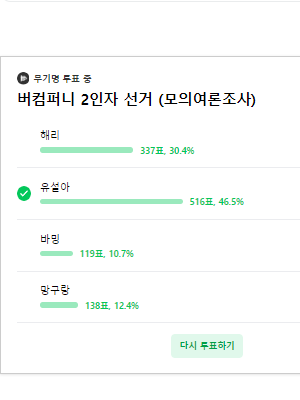
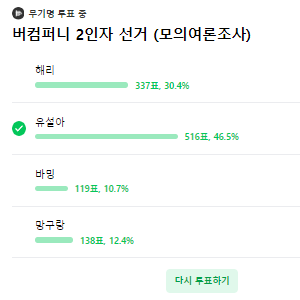
이미지 변경

diff --git a/index.html b/index.html
@@ -269,8 +269,8 @@
         <section class="bg-light py-5" id="history">
             <div class="container px-5 my-5">
                 <div class="text-center mb-5">
-                    <h1 class="display-5 fw-bolder mb-0 candidate-history-title">유설아를 뽑아야하는이유! </h1>
-                    <p class="candidate-section-copy mt-3 mb-0">말보다 기록으로 증명하는 후보자의 핵심 경력</p>
+                    <h1 class="display-5 fw-bolder mb-0 candidate-history-title">📌 유설아를 뽑아야 하는 이유! 📌</h1>
+                    <p class="candidate-section-copy mt-3 mb-0">팬카페 민심이 증명한, 이미 선택받은 진짜 2인자</p>
                 </div>
                 <div class="row gx-5 justify-content-center">
                     <div class="col-lg-11 col-xl-9 col-xxl-8">